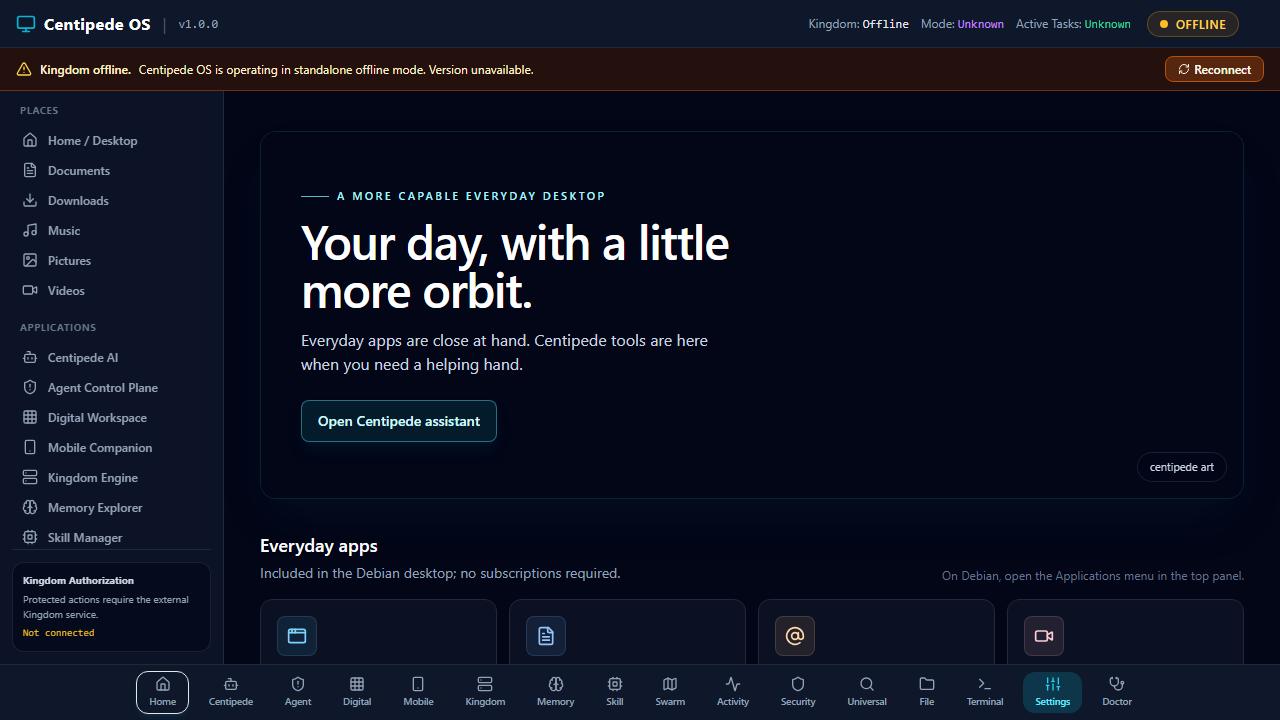
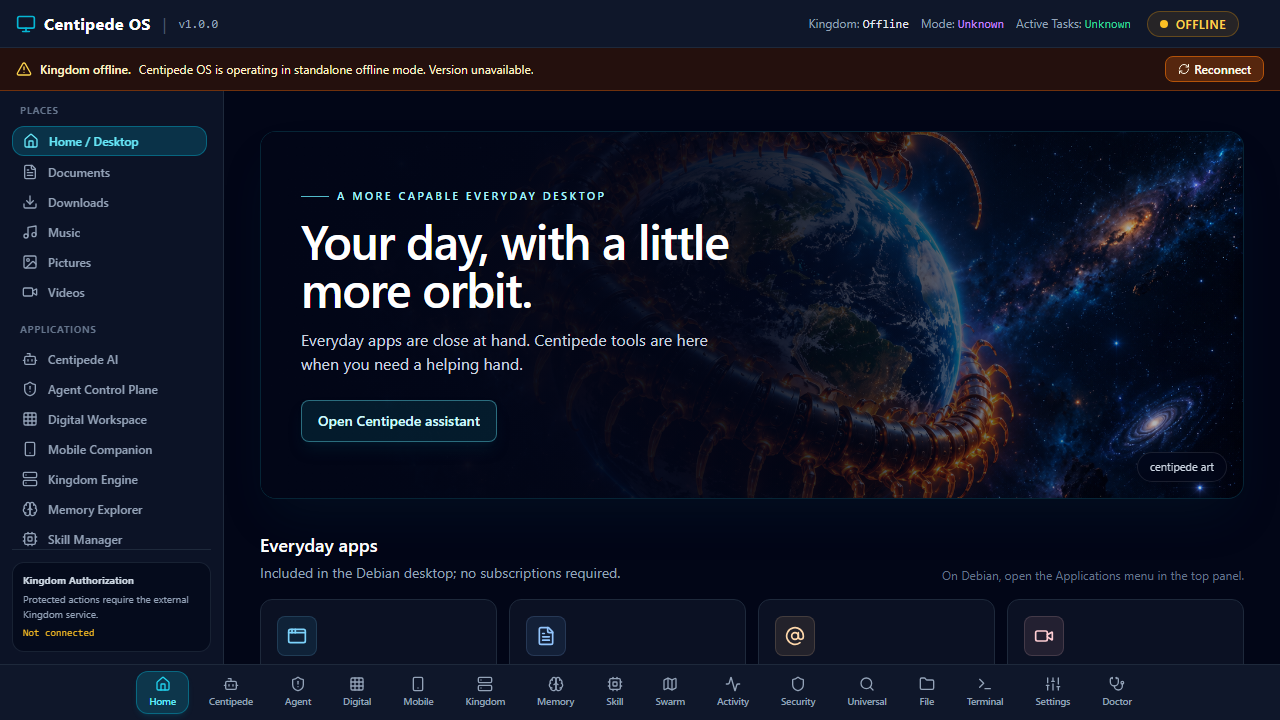
Finish background video cleanup and verify decoded default artwork

diff --git a/tests/e2e/home-media.playwright.ts b/tests/e2e/home-media.playwright.ts
@@ -4,6 +4,7 @@ test('local GIF persists, really pauses, honors reduced motion, and rejects exec
   await page.addInitScript(() => localStorage.setItem('centipede_first_run_completed', 'true'));
   await page.goto('/');
   await expect(page.getByAltText('Illuminated metallic centipede curled around Earth')).toBeVisible();
+  await expect.poll(() => page.getByAltText('Illuminated metallic centipede curled around Earth').evaluate((element: HTMLImageElement) => element.complete && element.naturalWidth > 1000)).toBe(true);
   await page.getByRole('complementary').getByRole('button', { name: 'Settings', exact: true }).click();
   const picker = page.locator('input[type=file]');
   // A real tiny GIF, decoded by the browser and stored by the normal file picker handler.
@@ -30,5 +31,33 @@ test('local GIF persists, really pauses, honors reduced motion, and rejects exec
   await expect(page.getByRole('status').filter({ hasText: 'Removed the saved custom background' })).toBeVisible();
   await page.getByRole('complementary').getByRole('button', { name: 'Home / Desktop', exact: true }).click();
   await expect(page.getByAltText('Illuminated metallic centipede curled around Earth')).toBeVisible();
+  await page.getByAltText('Illuminated metallic centipede curled around Earth').evaluate((element: HTMLImageElement) => element.decode());
+  await expect.poll(() => page.getByAltText('Illuminated metallic centipede curled around Earth').evaluate((element: HTMLImageElement) => element.complete && element.naturalWidth > 1000 && element.getBoundingClientRect().width > 500)).toBe(true);
   await page.screenshot({ path: 'test-results/home-media-signature-art.png' });
+});
+
+test('real video releases the old decoder on pause, offscreen and Home unmount', async ({ page }) => {
+  await page.addInitScript(() => localStorage.setItem('centipede_first_run_completed', 'true'));
+  await page.goto('/');
+  await page.getByRole('complementary').getByRole('button', { name: 'Settings', exact: true }).click();
+  await page.locator('input[type=file]').setInputFiles('tests/fixtures/local-background.webm');
+  await expect(page.getByRole('status').filter({ hasText: 'Saved local-background.webm' })).toBeVisible();
+  await page.getByRole('complementary').getByRole('button', { name: 'Home / Desktop', exact: true }).click();
+  const start = async () => {
+    await page.getByRole('button', { name: 'Play background', exact: true }).click();
+    await expect.poll(() => page.locator('video').evaluate((element: HTMLVideoElement) => element.readyState >= 2 && !element.paused && element.videoWidth === 16)).toBe(true);
+    return page.locator('video').elementHandle();
+  };
+  const paused = await start();
+  await page.getByRole('button', { name: 'Pause background', exact: true }).click();
+  await expect.poll(() => paused!.evaluate((element: HTMLVideoElement) => element.paused && !element.getAttribute('src') && element.readyState === HTMLMediaElement.HAVE_NOTHING)).toBe(true);
+  const scrolled = await start();
+  await page.getByText('Everyday apps', { exact: true }).scrollIntoViewIfNeeded();
+  await page.getByText('Centipede tools', { exact: true }).scrollIntoViewIfNeeded();
+  await expect.poll(() => scrolled!.evaluate((element: HTMLVideoElement) => element.paused && !element.getAttribute('src') && element.readyState === HTMLMediaElement.HAVE_NOTHING)).toBe(true);
+  await page.getByRole('complementary').getByRole('button', { name: 'Settings', exact: true }).click();
+  await page.getByRole('complementary').getByRole('button', { name: 'Home / Desktop', exact: true }).click();
+  const detached = await start();
+  await page.getByRole('complementary').getByRole('button', { name: 'Settings', exact: true }).click();
+  await expect.poll(() => detached!.evaluate((element: HTMLVideoElement) => !element.isConnected && element.paused && !element.getAttribute('src') && element.readyState === HTMLMediaElement.HAVE_NOTHING)).toBe(true);
 });

diff --git a/src/components/LocalMediaBackground.tsx b/src/components/LocalMediaBackground.tsx
@@ -46,12 +46,16 @@ export function LocalMediaBackground({ custom = false, className = '' }: { custo
   useEffect(() => {
     const element = video.current;
     if (!element) return;
-    if (moving) void element.play().catch(() => { setPlay(false); setError('Playback unavailable. Showing the still preview.'); });
+    let active = true;
+    if (moving) void element.play().catch(() => { if (active) { setPlay(false); setError('Playback unavailable. Showing the still preview.'); } });
     else element.pause();
-  }, [moving]);
+    // The ref becomes null when React removes the video. Capture the actual old
+    // decoder here so pause, navigation and transport of a new file release it.
+    return () => { active = false; element.pause(); element.removeAttribute('src'); element.load(); };
+  }, [moving, urls?.media]);
   return <div ref={container} className={`absolute inset-0 overflow-hidden bg-slate-950 ${className}`}>
     {custom && media && urls ? media.kind === 'video' && moving
-      ? <video ref={video} src={urls.media} poster={urls.poster} muted loop playsInline className="h-full w-full object-cover" onError={() => { setPlay(false); setError('Playback failed. Showing the still preview.'); }} />
+      ? <video key={urls.media} ref={video} src={urls.media} poster={urls.poster} muted loop playsInline className="h-full w-full object-cover" onError={() => { setPlay(false); setError('Playback failed. Showing the still preview.'); }} />
       : <img src={moving ? urls.media : urls.poster} alt={media.name} className="h-full w-full object-cover" onError={() => { setMedia(null); setError('Background failed to load. Showing the signature artwork.'); }} />
       : <img src={ART_BACKGROUND} alt="Illuminated metallic centipede curled around Earth" className="h-full w-full object-cover" />}
     <div className="pointer-events-none absolute inset-0 bg-gradient-to-r from-slate-950/85 via-slate-950/30 to-slate-950/10" />

diff --git a/docs/MEDIA_CLEANUP_VERIFICATION.md b/docs/MEDIA_CLEANUP_VERIFICATION.md
@@ -1,0 +1,28 @@
+# Interrupted media work: completed review fixes
+
+The background video effect now captures the actual video node and releases its
+source/media state when paused, moved offscreen or removed with Home navigation.
+Cleanup also suppresses obsolete asynchronous play-error state changes.
+
+The browser test uses a real small local WebM fixture. It verifies playback, then
+checks the retained old element is paused, has no source attribute and reports
+HAVE_NOTHING after cleanup. Chromium may retain the prior currentSrc string even
+after these resource states are cleared; that historical URL is not used as a
+decoder-release signal.
+
+The regression was run against the prior committed component and failed at the
+pause/unload assertion. Restoring the fix made it pass. The full browser suite
+then passed seven tests, including GIF persistence/pause, reduced motion,
+executable-background rejection and decoded signature-art visibility. The refreshed
+`images/centipede-local-art-preview.png` was visually inspected and shows artwork.
+
+On Windows, the initial test invocation lacked the Python executable used by two
+local contract fixtures. Running the configured fixture interpreter yielded
+191 passed, 3 skipped, 0 failed across 34 files. The skips are explicitly live
+Kingdom integration cases; they are not live fleet evidence. Type checking and
+the production build passed. Browser fixtures do not prove hardware install or
+an actual signed Kingdom connection.
+
+The art has separately been installed as DT1's desktop-launcher wallpaper file
+and on its read-only status page. DT1 remains in text mode; neither this screenshot
+nor the file installation claims a graphical session is running there.
